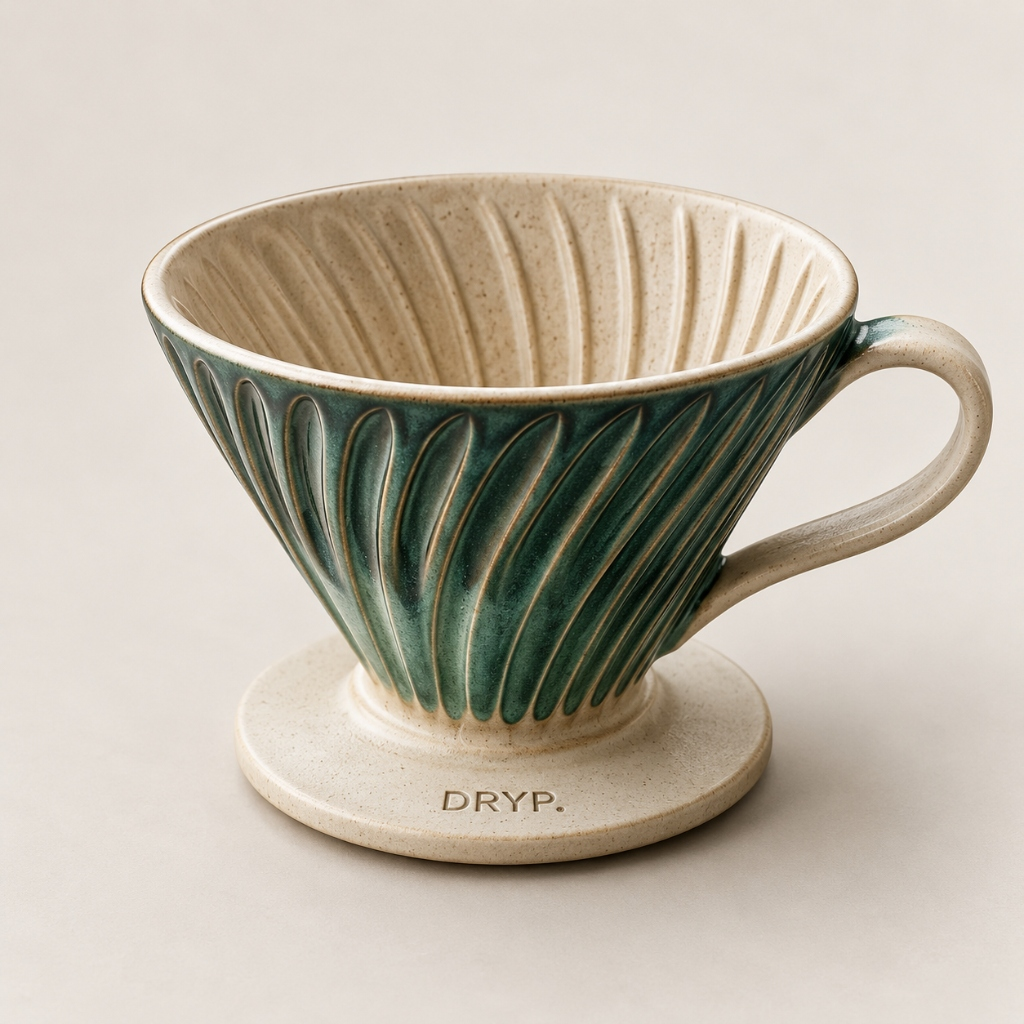
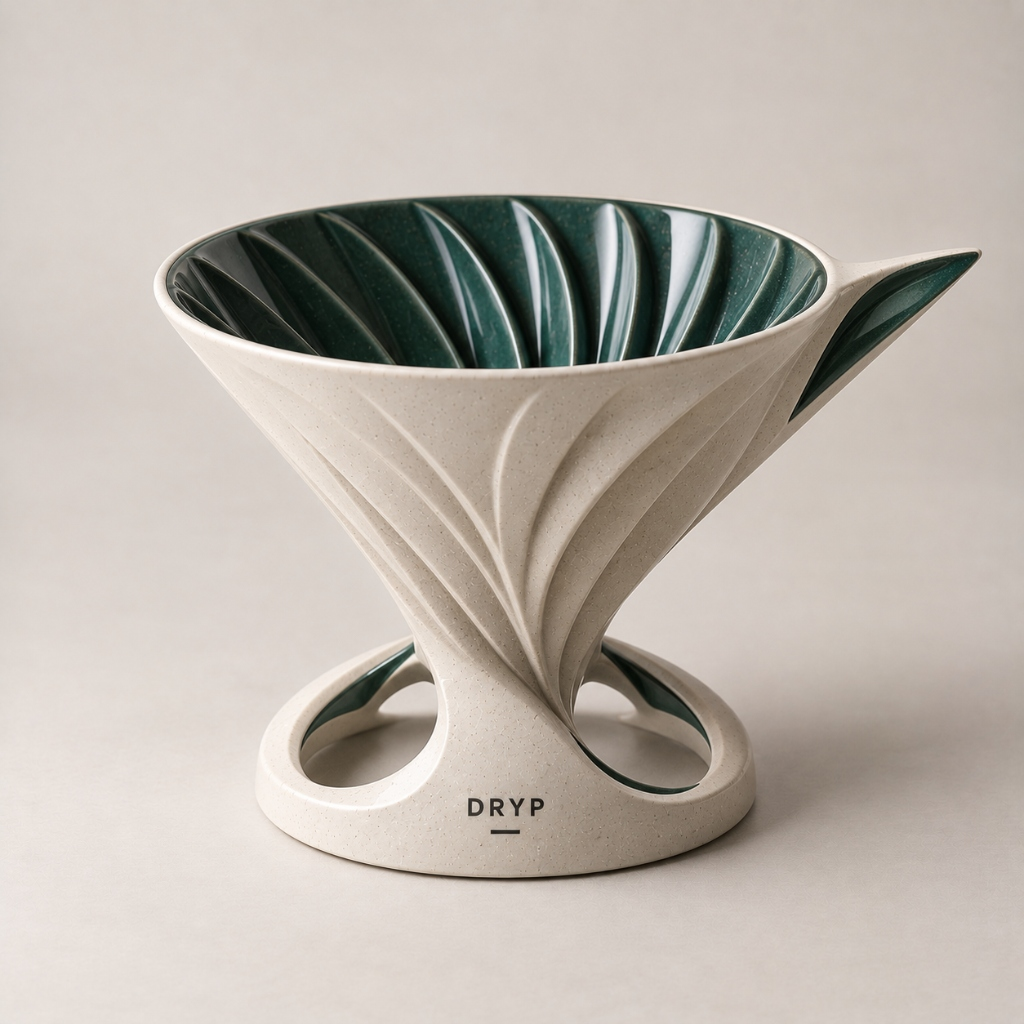
fix: replace Colibri dripper with sculpted emerald wing render

diff --git a/dripper-app/src/i18n/localizedData.ts b/dripper-app/src/i18n/localizedData.ts
@@ -843,8 +843,8 @@ export const LOCALIZED_PRODUCTS: Record<Language, Product[]> = {
       eyebrow: 'BIO 01',
       name: 'Colibrí & Bosque de Niebla',
       headline: 'Morning dew on mountain leaves and swift hummingbird wings.',
-      story: 'Speckled ivory stoneware with hand-carved spiral feather ribs in reactive emerald green glaze, internal drainage grooves, and an ergonomic loop handle.',
-      objectDescription: 'Spiral fluting mimics aerodynamic hummingbird feathering, providing smooth air venting and rapid extraction that preserves floral and citrus aromatics.',
+      story: 'Sculpted from speckled ivory cloud stoneware with sweeping aerodynamic wing-feather contours on the exterior, an extended wing-tip pouring grip, and a deep glossy emerald-forest green glazed interior chamber, resting on a helical arched base debossed with DRYP.',
+      objectDescription: 'Internal vertical emerald flutes guide fast, laminar water drainage with zero dry-channel stalling, highlighting intense floral aromatics, jasmine, and sparkling citrus clarity.',
       price: 88,
       currency: 'USD',
       stockStatus: 'available',
@@ -852,7 +852,7 @@ export const LOCALIZED_PRODUCTS: Record<Language, Product[]> = {
       stockCountRemaining: 25,
       paletteColors: [
         { name: 'Speckled Cloud Cream', hex: '#EAE5D9' },
-        { name: 'Reactive Emerald Glaze', hex: '#2A6A4E' }
+        { name: 'Deep Emerald Forest Glaze', hex: '#1C4B3A' }
       ],
       specs: {
         extractionStyle: 'High clarity, pronounced floral and bright fruit aromatics',
@@ -1910,8 +1910,8 @@ export const LOCALIZED_PRODUCTS: Record<Language, Product[]> = {
       eyebrow: 'BIO 01',
       name: 'Colibrí & Bosque de Niebla',
       headline: 'El rocío fresco sobre las hojas verdes y el aleteo fugaz al amanecer.',
-      story: 'Gres crema moteado con nervaduras espirales en esmalte verde esmeralda reactivo, estrías internas de drenaje y asa ergonómica curva inspirada en el vuelo del colibrí.',
-      objectDescription: 'Las nervaduras talladas a mano en espiral favorecen una circulación de aire óptima entre el filtro y la pared cerámica, acelerando el paso del agua para preservar notas florales, cítricas y jazmín.',
+      story: 'Esculpido en gres crema moteado con nervaduras exteriores en forma de alas aerodinámicas, un agarre en pico alado y una cámara interior en esmalte verde bosque esmeralda brillante, apoyado sobre una peana calada helicoidal con el sello grabado DRYP.',
+      objectDescription: 'Las nervaduras interiores verticales bañadas en esmalte esmeralda canalizan un drenaje laminar rápido sin estancamientos, reteniendo la acidez viva, notas florales de jazmín y perfiles cítricos cristalinos.',
       price: 88,
       currency: 'USD',
       stockStatus: 'available',
@@ -1919,7 +1919,7 @@ export const LOCALIZED_PRODUCTS: Record<Language, Product[]> = {
       stockCountRemaining: 25,
       paletteColors: [
         { name: 'Gres Crema Moteado', hex: '#EAE5D9' },
-        { name: 'Esmalte Esmeralda Reactivo', hex: '#2A6A4E' }
+        { name: 'Verde Bosque Esmeralda', hex: '#1C4B3A' }
       ],
       specs: {
         extractionStyle: 'Claridad floral brillante, notas cítricas vivas y final limpio',

diff --git a/dripper-app/src/data/pinterestPinsData.ts b/dripper-app/src/data/pinterestPinsData.ts
@@ -297,7 +297,7 @@ export const DRYP_DRIPS: DrypDrip[] = [
     id: 'drip-nature-hummingbird',
     productId: 'nature-colibri-andes',
     title: '05 / Colibrí Andino',
-    subtitle: 'Gres crema con nervaduras verde esmeralda y asa ergonómica. Flujo ágil que resalta notas florales y cítricas.',
+    subtitle: 'Gres crema moteado con nervaduras en ala aerodinámica, cámara interior en esmalte verde esmeralda brillante, pico alado y peana calada con sello DRYP.',
     category: 'Nature',
     categoryLabel: 'Naturaleza',
     imageSrc: '/images/products/colibri-andes.jpg',
